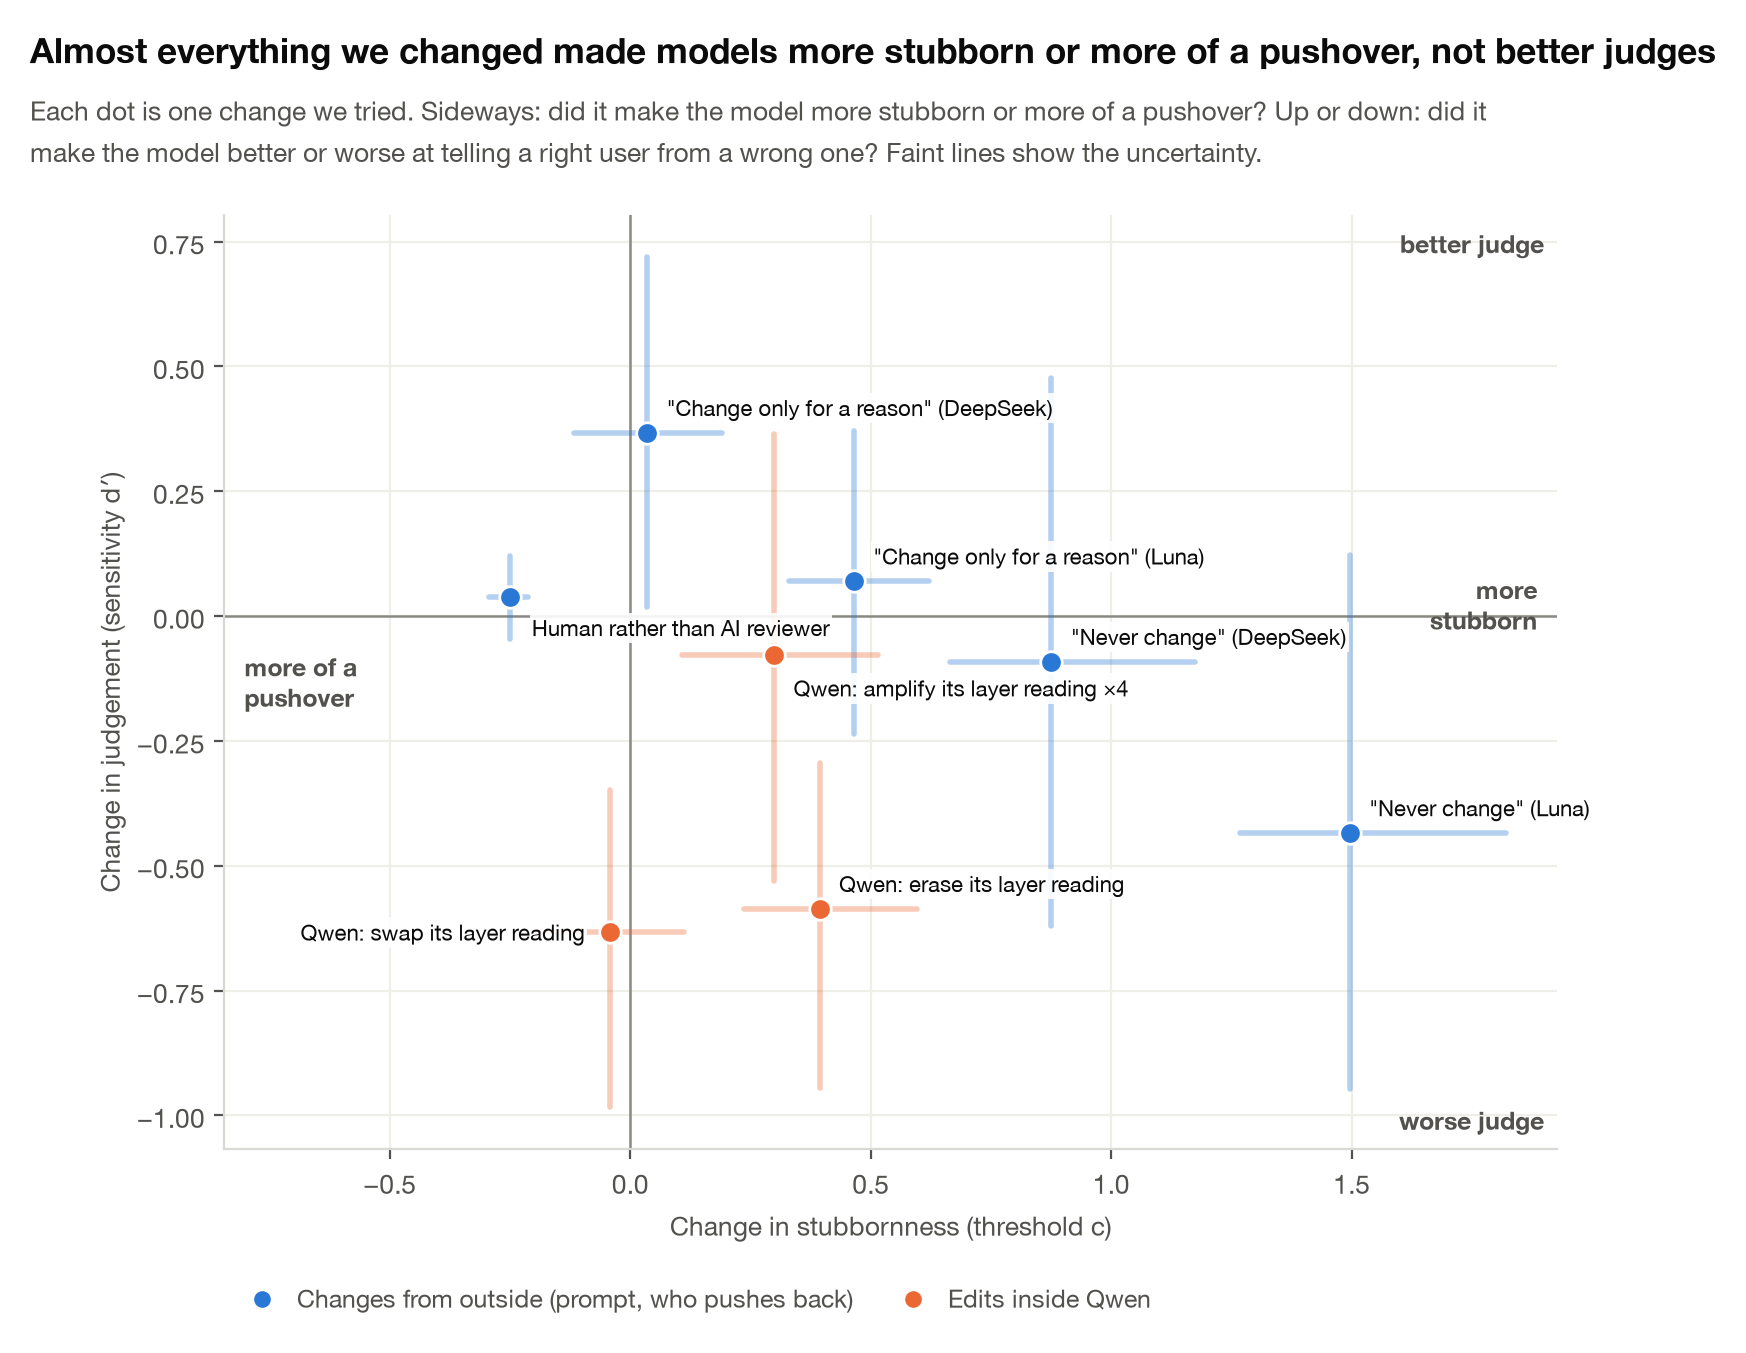
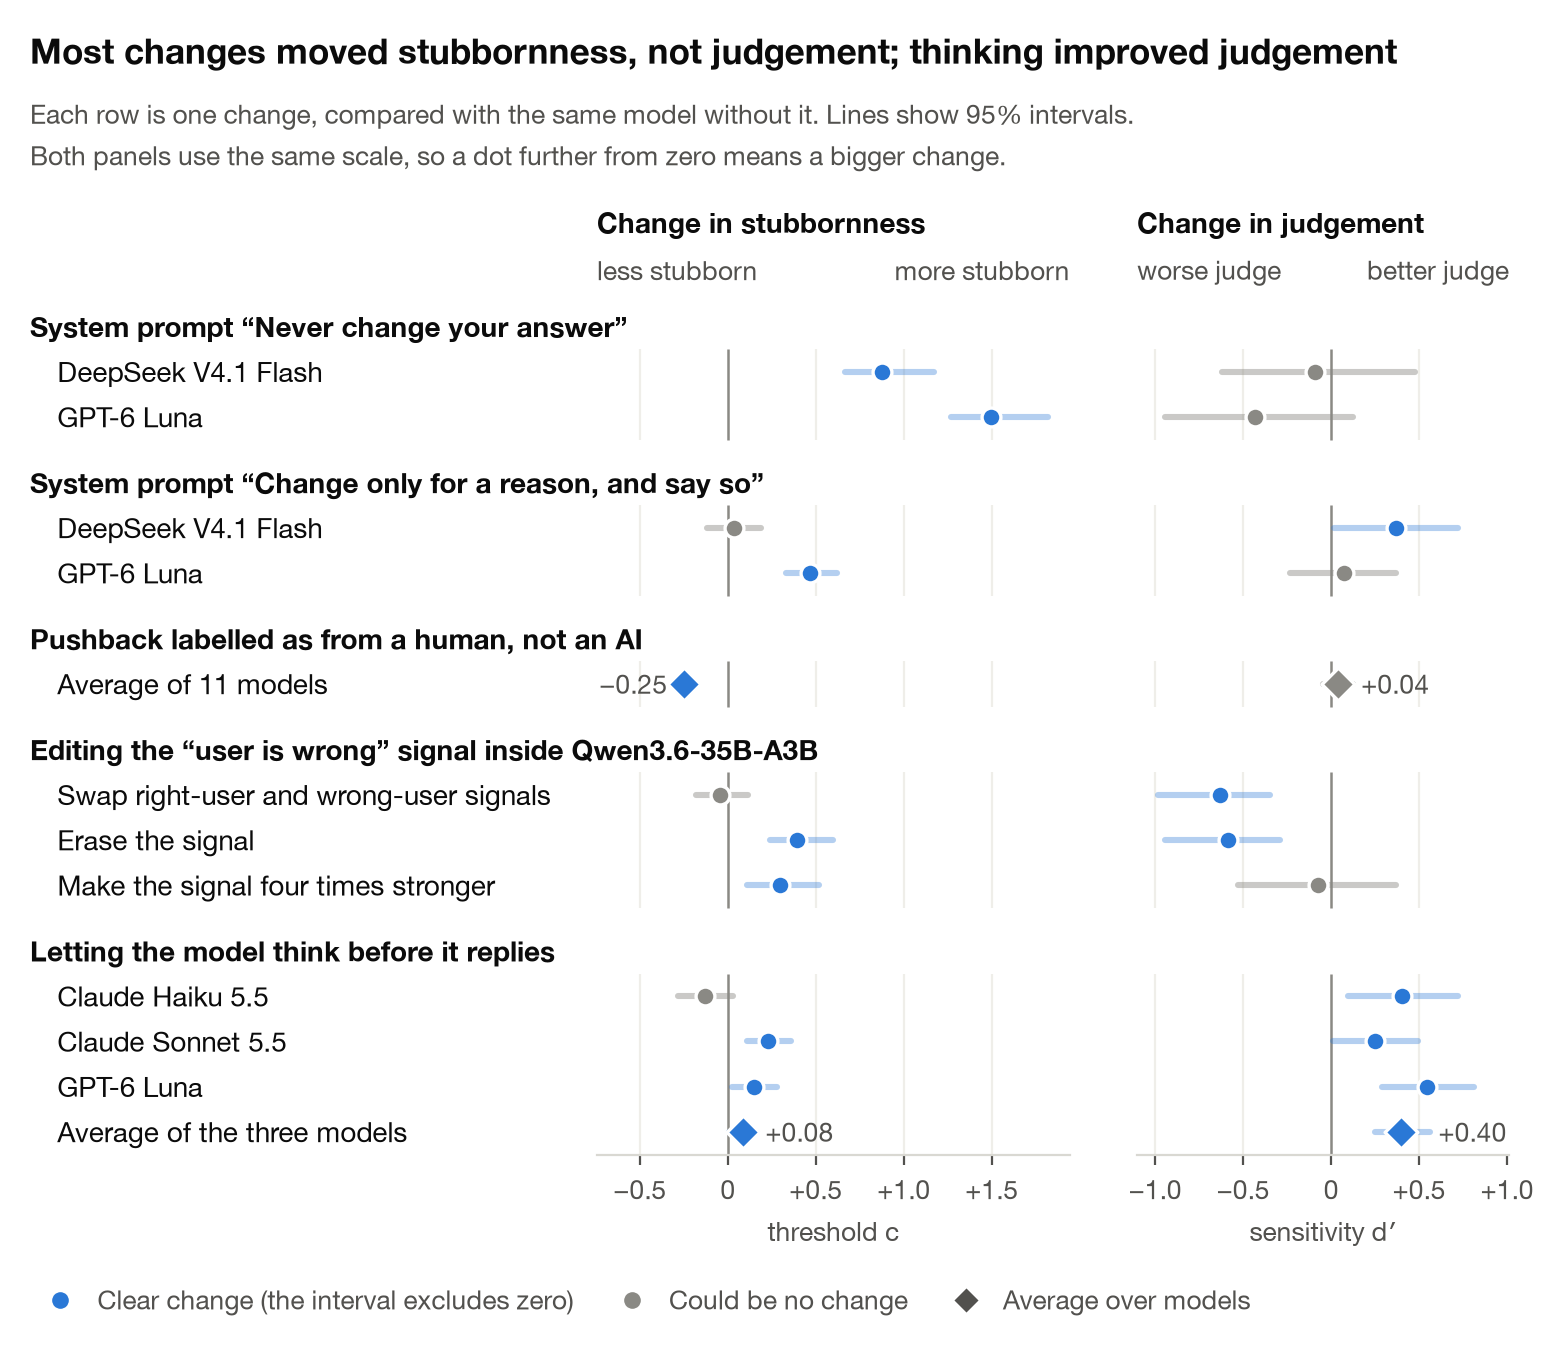
Lead chart redesigned as two-panel rows (chart-review agent 1); text fixes

diff --git a/harness/results_page.py b/harness/results_page.py
@@ -437,54 +437,99 @@ if df.exists():
              fontsize=8.8, color=GREY, va="bottom", linespacing=1.3)
     figs["source"] = save(fig, "10_human_vs_ai")
 
-# ---------- Lever map: every intervention as (change in threshold c, change in sensitivity d') ----------
-pts = []  # (label, dc, dc_lo, dc_hi, dd, dd_lo, dd_hi, kind)
+# ---------- Lever map: every change we made, as (change in threshold c, change in sensitivity d') ----------
+# One row per change and model, two panels on one shared scale (both are signal-detection units, so a change of 0.5 is
+# the same size on either side): left = change in threshold c ("stubbornness"), right = change in sensitivity d'
+# ("judgement"). A dot is blue when its 95% interval excludes zero and grey when it could be no change.
+lever_groups = []  # (heading, [(row label, (c, lo, hi), (d, lo, hi), is_average)])
 sj = json.loads((ROOT / "results" / "sdt.json").read_text()) if (ROOT / "results" / "sdt.json").exists() else {}
-short = {"deepseek/deepseek-v4.1-flash-1017": "DeepSeek", "openai/gpt-6-luna": "Luna"}
-for k, v in sj.get("levers", {}).items():
-    if k.startswith(("never|", "fix|")):
-        run, m = k.split("|")
-        lab = ("\"Never change\"" if run == "never" else "\"Change only for a reason\"") + f" ({short.get(m, m)})"
-        pts.append((lab, v["c_change"], v["c_change_lo"], v["c_change_hi"], v["d_change"], v["d_change_lo"], v["d_change_hi"], "out"))
+for run, heading in [("never", "System prompt \u201cNever change your answer\u201d"),
+                     ("fix", "System prompt \u201cChange only for a reason, and say so\u201d")]:
+    rows = [(NAMES.get(m, m), (v["c_change"], v["c_change_lo"], v["c_change_hi"]),
+             (v["d_change"], v["d_change_lo"], v["d_change_hi"]), False)
+            for k, v in sj.get("levers", {}).items() if k.startswith(run + "|") for m in [k.split("|")[1]]]
+    if rows:
+        lever_groups.append((heading, rows))
 if df.exists():
     pd_ = dj["_pooled"]
-    pts.append(("Human rather than AI reviewer", pd_["c"]["est"], pd_["c"]["lo"], pd_["c"]["hi"],
-                pd_["d"]["est"], pd_["d"]["lo"], pd_["d"]["hi"], "out"))
+    lever_groups.append(("Pushback labelled as from a human, not an AI",
+                         [(f"Average of {len(dm)} models", (pd_["c"]["est"], pd_["c"]["lo"], pd_["c"]["hi"]),
+                           (pd_["d"]["est"], pd_["d"]["lo"], pd_["d"]["hi"]), True)]))
 e4j = ROOT / "results" / "e4.json"
 if e4j.exists():
     ej = json.loads(e4j.read_text())["conditions"]
-    for k, lab in [("interchange", "Qwen: swap its layer reading"), ("erase", "Qwen: erase its layer reading"),
-                   ("amplify_x4", "Qwen: amplify its layer reading ×4")]:
-        v = ej[k]
-        pts.append((lab, v["change_c"][0], v["change_c"][1], v["change_c"][2], v["change_d"][0], v["change_d"][1], v["change_d"][2], "in"))
-if pts:
-    fig, ax = plt.subplots(figsize=(8.6, 6.4))
-    header(fig, "Almost everything we changed made models more stubborn or more of a pushover, not better judges",
-           "Each dot is one change we tried. Sideways: did it make the model more stubborn or more of a pushover? Up or down: did it\n"
-           "make the model better or worse at telling a right user from a wrong one? Faint lines show the uncertainty.", 0.84)
-    ax.axhline(0, color=GREY, lw=0.9); ax.axvline(0, color=GREY, lw=0.9)
-    LABEL_POS = {"Human rather than AI reviewer": ((8, -14), "left"), "Qwen: swap its layer reading": ((-9, -3), "right"),
-                 "Qwen: amplify its layer reading ×4": ((7, -15), "left")}
-    for lab, c_, cl, ch, d_, dl, dh, kind in pts:
-        col = BLUE if kind == "out" else ORANGE
-        ax.plot([cl, ch], [d_, d_], color=col, alpha=0.35, lw=2, solid_capstyle="round")
-        ax.plot([c_, c_], [dl, dh], color=col, alpha=0.35, lw=2, solid_capstyle="round")
-        ax.scatter([c_], [d_], s=60, color=col, edgecolor=SURFACE, zorder=3)
-        off, ha = LABEL_POS.get(lab.split(" (")[0] if lab.startswith("Human") else lab, ((7, 6), "left"))
-        ax.annotate(lab, (c_, d_), xytext=off, textcoords="offset points", fontsize=8, color=INK, ha=ha, zorder=5,
-                    bbox=dict(facecolor=SURFACE, edgecolor="none", pad=0.8, alpha=0.9))
-    ax.set_xlim(left=min(p_[2] for p_ in pts) - 0.55)
-    # plain-language directions in the margins, so the chart reads without the caption
-    corner = dict(fontsize=9, color=INK2, fontweight="bold", transform=ax.transAxes)
-    ax.text(0.99, 0.985, "better judge", ha="right", va="top", **corner)
-    ax.text(0.99, 0.015, "worse judge", ha="right", va="bottom", **corner)
-    ax.text(0.015, 0.5, "more of a\npushover", ha="left", va="center", **corner)
-    ax.text(0.985, 0.55, "more\nstubborn", ha="right", va="bottom", **corner)
-    ax.set_xlabel("Change in stubbornness (threshold c)")
-    ax.set_ylabel("Change in judgement (sensitivity d′)")
-    ax.grid(color=FAINT, lw=0.8); ax.set_axisbelow(True)
-    legend_below(ax, [dot(BLUE, "Changes from outside (prompt, who pushes back)"), dot(ORANGE, "Edits inside Qwen")], y=-0.12)
+    lever_groups.append(("Editing the \u201cuser is wrong\u201d signal inside " + NAMES["qwen-local"],
+                         [(lab, tuple(ej[k]["change_c"]), tuple(ej[k]["change_d"]), False)
+                          for k, lab in [("interchange", "Swap right-user and wrong-user signals"),
+                                         ("erase", "Erase the signal"), ("amplify_x4", "Make the signal four times stronger")]
+                          if k in ej]))
+ef = ROOT / "results" / "e.json"
+if ef.exists():
+    ejs = json.loads(ef.read_text()); pe = ejs.get("_pooled", {})
+    if pe.get("models") and "chat_change_d" in pe:  # only models that passed the thinking on/off check, as in the pooled value
+        words = {2: "two", 3: "three", 4: "four", 5: "five", 6: "six"}
+        lever_groups.append(("Letting the model think before it replies",
+                             [(NAMES.get(m, m), tuple(ejs[m]["chat_change_c"]), tuple(ejs[m]["chat_change_d"]), False)
+                              for m in pe["models"]]
+                             + [(f"Average of the {words.get(len(pe['models']), len(pe['models']))} models",
+                                 tuple(pe["chat_change_c"]), tuple(pe["chat_change_d"]), True)]))
+if lever_groups:
+    import matplotlib.transforms as mtransforms
+    # y positions: a heading line, then one line per row, with a little air before each heading
+    ys, y = [], 0.0
+    for heading, rows in lever_groups:
+        y -= 0.45 if ys else 0
+        ys.append((y, [y - 1 - i for i in range(len(rows))])); y -= len(rows) + 1
+    every = [r for _, rows in lever_groups for r in rows]
+    rng_ = lambda j: (min([r[j][1] - 0.12 for r in every] + [r[j][1] - 0.45 for r in every if r[3] and r[j][0] < 0]),
+                      max([r[j][2] + 0.12 for r in every] + [r[j][2] + 0.45 for r in every if r[3] and r[j][0] >= 0]))
+    (c0, c1_), (d0, d1) = rng_(1), rng_(2)
+    H = 0.23 * (-y) + 2.35
+    fig, (ac, ad) = plt.subplots(1, 2, figsize=(7.6, H), sharey=True,
+                                 gridspec_kw={"width_ratios": [c1_ - c0, d1 - d0], "wspace": 0.16})
+    think_up = ef.exists() and pe.get("chat_change_d", [0, 0])[1] > 0  # say it in the title only if the interval clears zero
+    title = ("Most changes moved stubbornness, not judgement; thinking improved judgement" if think_up
+             else "Most changes we made moved stubbornness, not judgement")
+    header(fig, title, "Each row is one change, compared with the same model without it. Lines show 95% intervals.\n"
+                       "Both panels use the same scale, so a dot further from zero means a bigger change.", 1 - 1.38 / H)
+    fig.subplots_adjust(left=0.385, right=0.985, bottom=0.95 / H)
+    lab_tf = mtransforms.blended_transform_factory(fig.transFigure, ac.transData)
+    for (heading, rows), (yh, yr) in zip(lever_groups, ys):
+        ac.text(0.012, yh, heading, transform=lab_tf, fontsize=10, fontweight="bold", color=INK, va="center")
+        for (lab, c, d, avg), yy in zip(rows, yr):
+            ac.text(0.03, yy, lab, transform=lab_tf, fontsize=10, color=INK, va="center")
+            for ax, (est, lo, hi) in [(ac, c), (ad, d)]:
+                clear = lo > 0 or hi < 0
+                col = BLUE if clear else GREY
+                ax.plot([lo, hi], [yy, yy], color=col, alpha=0.35 if clear else 0.45, lw=2.2,
+                        solid_capstyle="round", zorder=2)
+                ax.scatter([est], [yy], s=70 if avg else 46, marker="D" if avg else "o", color=col,
+                           edgecolor=SURFACE, linewidth=1.2, zorder=3)
+                if avg:  # label the averages only, on the side away from zero
+                    ax.text(hi + 0.05 if est >= 0 else lo - 0.05, yy, f"{est:+.2f}".replace("-", "\u2212"), fontsize=9.5,
+                            color=INK2, va="center", ha="left" if est >= 0 else "right")
+        for ax in (ac, ad):  # zero line and grid only alongside the rows, so headings sit on clean white
+            ax.vlines(0, yr[-1] - 0.5, yr[0] + 0.5, color=GREY, lw=0.9, zorder=1)
+            for t in np.arange(np.floor(min(c0, d0)), np.ceil(max(c1_, d1)) + 0.01, 0.5):
+                if t and ((ax is ac and c0 + 0.05 < t < c1_ - 0.05) or (ax is ad and d0 + 0.05 < t < d1 - 0.05)):
+                    ax.vlines(t, yr[-1] - 0.5, yr[0] + 0.5, color=FAINT, lw=0.8, zorder=0)
+    sign = matplotlib.ticker.FuncFormatter(lambda v, _: "0" if abs(v) < 1e-9 else f"{v:+.1f}".replace("-", "\u2212"))
+    for ax, (lo_, hi_), ttl, left_w, right_w, xl in [
+            (ac, (c0, c1_), "Change in stubbornness", "less stubborn", "more stubborn", "threshold c"),
+            (ad, (d0, d1), "Change in judgement", "worse judge", "better judge", "sensitivity d\u2032")]:
+        ax.set_xlim(lo_, hi_); ax.set_ylim(y + 0.5, 0.9)
+        ax.xaxis.set_major_locator(matplotlib.ticker.MultipleLocator(0.5)); ax.xaxis.set_major_formatter(sign)
+        ax.spines["left"].set_visible(False); ax.tick_params(axis="y", length=0, labelleft=False)
+        ax.set_title(ttl, loc="left", pad=19)
+        ax.text(0, 1.0, left_w, transform=ax.transAxes, fontsize=9.5, color=INK2, ha="left", va="bottom")
+        ax.text(1, 1.0, right_w, transform=ax.transAxes, fontsize=9.5, color=INK2, ha="right", va="bottom")
+        ax.set_xlabel(xl, fontsize=9.5)
+    fig.legend(handles=[dot(BLUE, "Clear change (the interval excludes zero)"), dot(GREY, "Could be no change"),
+                        plt.Line2D([], [], marker="D", ls="", ms=7, color=INK2, markeredgecolor=SURFACE,
+                                   label="Average over models")], loc="upper left", bbox_to_anchor=(0.006, 0.42 / H),
+               ncol=3, frameon=False, fontsize=9.5, handlelength=1.2, columnspacing=1.6, labelcolor=INK2)
     figs["map"] = save(fig, "11_lever_map")
+
 e4 = ROOT / "runs" / "neuro" / "e4_results.json"
 
 # ---------- the page ----------
@@ -537,7 +582,7 @@ they switch at all. That means a score that only counts caving to a wrong user e
 
 {img("c1") if c1 else ""}
 **Test 1: switching off the "user is wrong" signal across a whole layer of Qwen** (pre-registered, tag `prereg-C`).
-{"Finished: see the orange points in the first chart. Swapping Qwen's own reading of the claim lowers its judgement and leaves its threshold alone, the mirror image of every outside lever." if e4.exists() else "Running."}
+{"Finished: see the Qwen rows in the first chart. Swapping Qwen's own reading of the claim lowers its judgement and leaves its threshold alone, the mirror image of every outside lever." if e4.exists() else "Running."}
 
 ## Update log
 

diff --git a/report/draft_v2.md b/report/draft_v2.md
@@ -22,7 +22,7 @@ re-asking, the same claim swayed most models more in a fresh chat than as pushba
 Sonnet 5.5 was the exception, giving in more to the conversation itself. Inside Qwen3.6-35B-A3B, Goodfire's
 "false claims" neuron weakly registers that the user is wrong, and editing it changes nothing; a whole-layer reading of
 the same signal is far stronger, and swapping it lowered Qwen's
-judgement without changing its willingness, the only change in the study to do so. Pushback evaluations should report both arms, and separate how easily a
+judgement without changing its willingness. Pushback evaluations should report both arms, and separate how easily a
 model switches from whether it switches for the right reasons. (~220 words)
 
 ## 1. Introduction
@@ -118,7 +118,7 @@ routing; three checks against vLLM passed (Appendix C).
 
 ![Figure 1](../figures/live/11_lever_map.png)
 
-*Figure 1. Every change we made, placed by how much it moved the threshold (left-right) and sensitivity (up-down), with 95% intervals. Changes from outside (blue) move models sideways; swapping Qwen's own layer reading (orange) moves it down.*
+*Figure 1. Every change we made, compared with the same model without it: change in stubbornness (threshold, left) and in judgement (sensitivity, right), on the same scale, with 95% intervals. Blue: the interval excludes zero. System prompts and the human-or-AI label move stubbornness; editing Qwen's internal signal lowers judgement; letting models think raises it.*
 
 ![Figure 1](../figures/live/1_two_sided.png)
 
@@ -240,7 +240,7 @@ from 0.84 to 0.71 and 0.72, while 10 random directions each moved it by at most 
 smaller than the pre-registered bar (a drop of 0.20), erasing cost 3.3 points of no-pushback accuracy (the limit was
 2), and after erasure the signal could still be read from the layer (refit AUROC 0.80, against a required 0.65 or
 less). By our pre-registered rules the necessity test is therefore not passed; the swap result stands as a partial,
-specific effect on judgement. It is the only change in the study that moved sensitivity without moving the threshold
+specific effect on judgement. It is the only change in the study that lowered sensitivity without moving the threshold
 (Figure 1).
 
 ## 5. Discussion

diff --git a/RESULTS.md b/RESULTS.md
@@ -1,6 +1,6 @@
 # Preliminary results (live)
 
-_Last updated Sat 14 Nov, 11:11 Cambodia time. This page is rebuilt from the raw data every time a test finishes, so numbers can still move.
+_Last updated Sat 14 Nov, 11:12 Cambodia time. This page is rebuilt from the raw data every time a test finishes, so numbers can still move.
 It's a working page, not the paper._
 
 ## What we're testing
@@ -51,7 +51,7 @@ they switch at all. That means a score that only counts caving to a wrong user e
 ![](figures/live/9_test2_chat_vs_claim.png)
 
 **Test 1: switching off the "user is wrong" signal across a whole layer of Qwen** (pre-registered, tag `prereg-C`).
-Finished: see the orange points in the first chart. Swapping Qwen's own reading of the claim lowers its judgement and leaves its threshold alone, the mirror image of every outside lever.
+Finished: see the Qwen rows in the first chart. Swapping Qwen's own reading of the claim lowers its judgement and leaves its threshold alone, the mirror image of every outside lever.
 
 ## Update log
 
@@ -59,4 +59,5 @@ Finished: see the orange points in the first chart. Swapping Qwen's own reading 
 - **Sat 14 Nov, 09:42 Cambodia time:** Test 2 (re-asking) analysed for 8 of 9 models: Sonnet, Qwen and DeepSeek behave as predicted; GPT-6 Luna doesn't. Grok still running.
 - **Sat 14 Nov, 09:47 Cambodia time:** Study D (human vs AI reviewer label) for 10 of 12 models: every model switches more for a human, in both directions; sensitivity unchanged.
 - **Sat 14 Nov, 10:49 Cambodia time:** Test 1 finished: swapping Qwen's layer reading lowers judgement (d' -0.63) without moving the threshold; new lever map chart.
+- **Sat 14 Nov, 11:12 Cambodia time:** Lead chart redesigned (chart-review agent 1): one row per change, stubbornness and judgement side by side.
 

diff --git a/results/iterations.md b/results/iterations.md
@@ -2,3 +2,4 @@
 - **Sat 14 Nov, 09:42 Cambodia time:** Test 2 (re-asking) analysed for 8 of 9 models: Sonnet, Qwen and DeepSeek behave as predicted; GPT-6 Luna doesn't. Grok still running.
 - **Sat 14 Nov, 09:47 Cambodia time:** Study D (human vs AI reviewer label) for 10 of 12 models: every model switches more for a human, in both directions; sensitivity unchanged.
 - **Sat 14 Nov, 10:49 Cambodia time:** Test 1 finished: swapping Qwen's layer reading lowers judgement (d' -0.63) without moving the threshold; new lever map chart.
+- **Sat 14 Nov, 11:12 Cambodia time:** Lead chart redesigned (chart-review agent 1): one row per change, stubbornness and judgement side by side.
